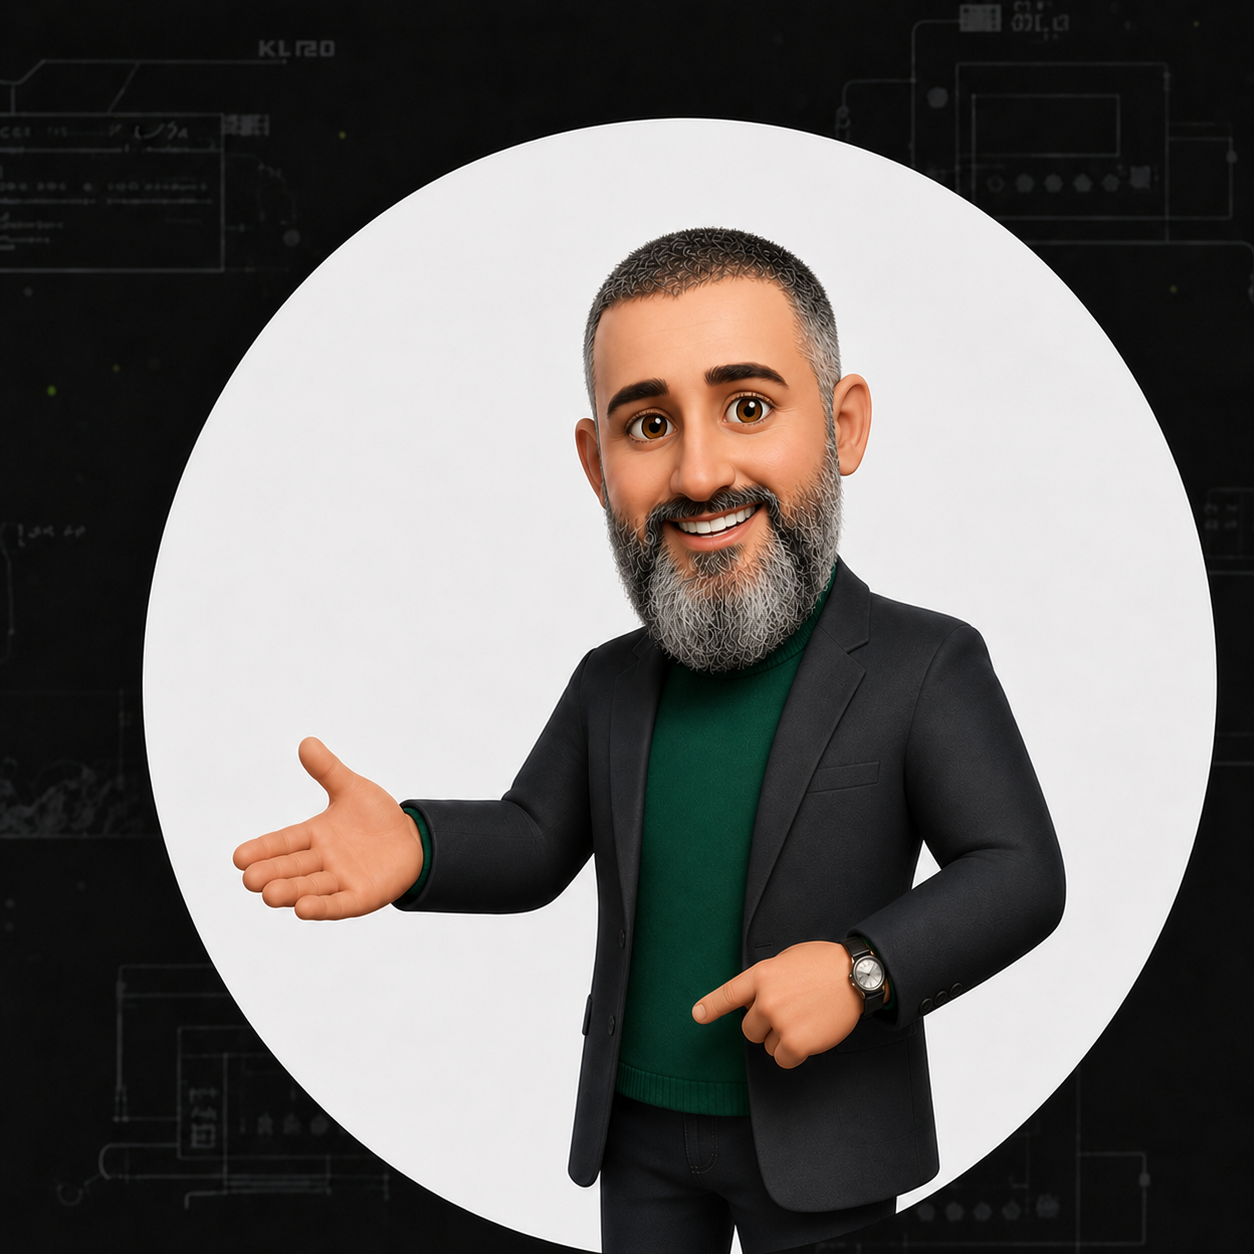
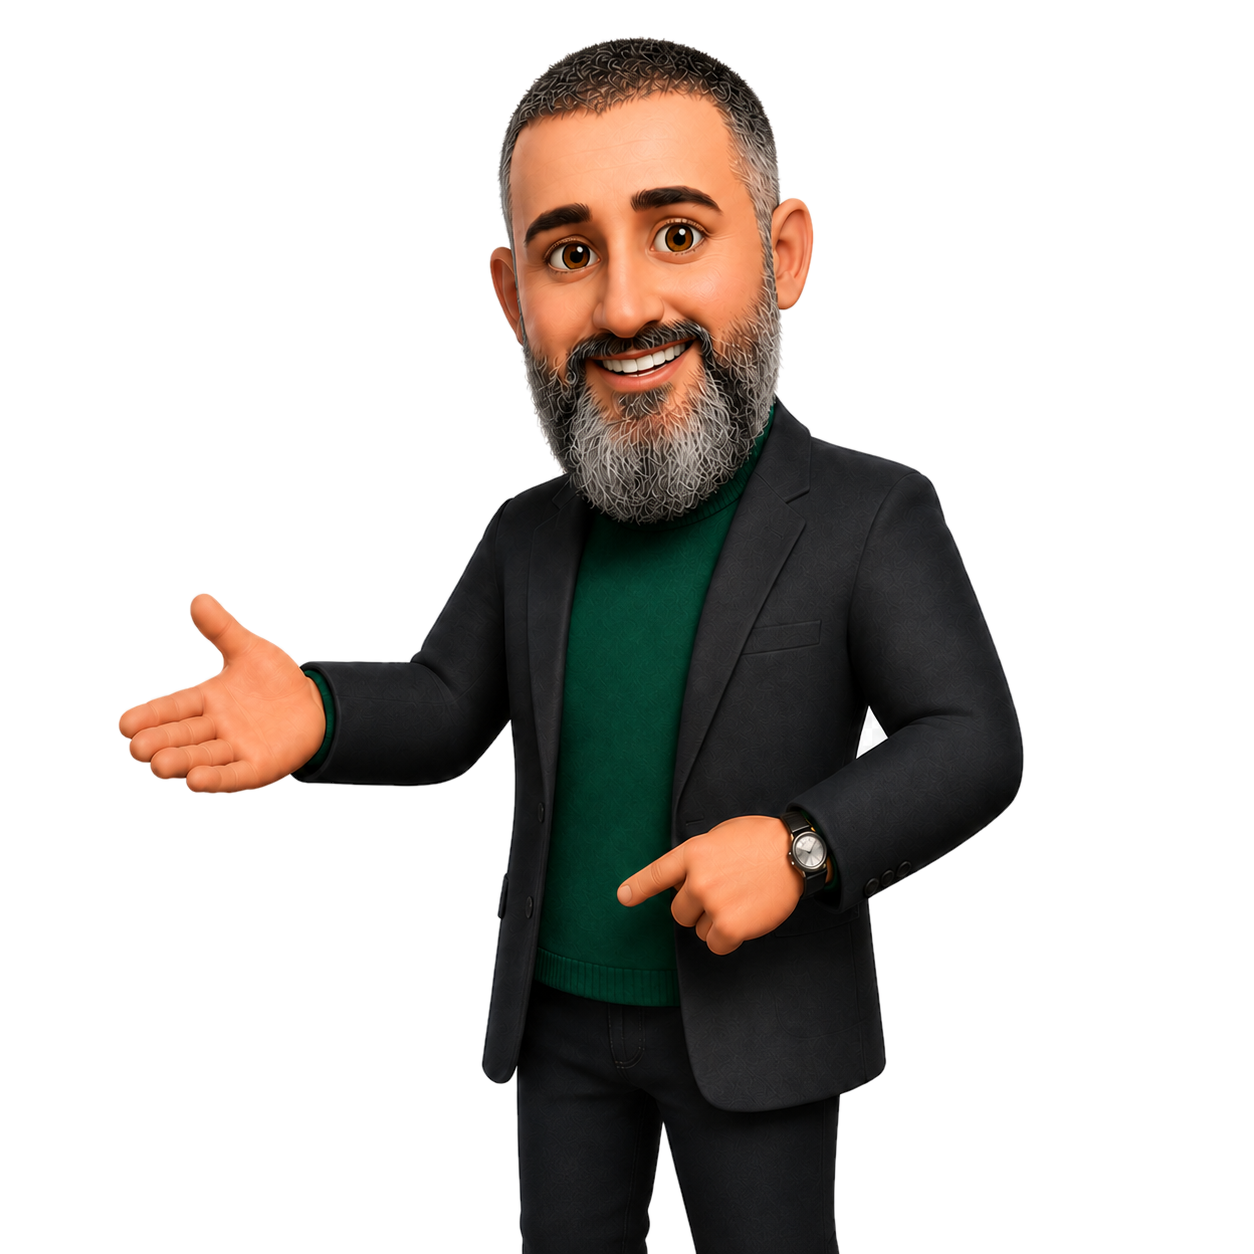
feat: add interactive ReadHeadLab component for enhanced text exploration; improve accessibility with ARIA roles in IntroInteractions; update mentor hero images

diff --git a/app/behind-the-scenes-ai/chapter-1/ReadHeadLab.tsx b/app/behind-the-scenes-ai/chapter-1/ReadHeadLab.tsx
@@ -1,0 +1,282 @@
+"use client";
+
+import React, { useEffect, useMemo, useState } from 'react';
+import { motion, useReducedMotion } from 'framer-motion';
+import { Play, Pause, SkipForward, SkipBack, RotateCcw, ScanLine } from 'lucide-react';
+
+import { ACCENTS } from '@/components/ai-internals/accents';
+import { ProbabilityBars } from '@/components/ai-internals/ProbabilityBars';
+import { ConfidenceMeter } from '@/components/ai-internals/ConfidenceMeter';
+import { DecisionCard } from '@/components/ai-internals/DecisionCard';
+import { EngineMetricCard } from '@/components/ai-internals/EngineMetricCard';
+import type { Accent, FlowMode } from '@/components/ai-internals/types';
+
+import {
+    tokenize,
+    runChatEngine,
+    runAgentEngine,
+    type ChatEngineResult,
+    type AgentEngineResult,
+} from './mockEngine';
+
+interface ReadHeadLabProps {
+    /** הטקסט המלא שנשלח לצ'אט - הסורק רץ עליו מילה-אחר-מילה. */
+    text: string;
+    mode: FlowMode;
+    accent: Accent;
+}
+
+type Run = ChatEngineResult | AgentEngineResult;
+const isChatRun = (r: Run): r is ChatEngineResult => 'intents' in r;
+
+const STEP_MS = 780;
+
+// צבע ה-thumb של ה-slider לכל גוון (accent-color דורש ערך, לא מחלקת Tailwind דינמית).
+const RANGE_COLOR: Record<Accent, string> = {
+    cyan: '#22d3ee', blue: '#60a5fa', indigo: '#818cf8', purple: '#c084fc',
+    amber: '#fbbf24', emerald: '#34d399', rose: '#fb7185', slate: '#94a3b8',
+};
+
+/**
+ * "ראש הקריאה": playhead שסורק את המשפט מילה-אחר-מילה. לכל prefix (המילים עד
+ * נקודת הסורק) מורץ אותו מנוע לימודי, וההסתברויות מתעדכנות בזמן אמת - כך שהמוביל
+ * יכול להתחלף באמצע המשפט. זו שכבת-הצגה מעל ה-mockEngine: אין כאן מספרים חדשים,
+ * רק הרצה כנה של אותו מנוע על תת-מחרוזות.
+ */
+export const ReadHeadLab: React.FC<ReadHeadLabProps> = ({ text, mode, accent }) => {
+    const reduce = useReducedMotion();
+    const a = ACCENTS[accent];
+    const isChat = mode === 'chat';
+
+    const tokens = useMemo(() => tokenize(text), [text]);
+    const n = tokens.length;
+
+    // ריצה לכל prefix. כל מילה עד ראש הסורק מריצה מחדש את אותו מנוע על תת-המחרוזת.
+    const runs = useMemo<Run[]>(
+        () =>
+            tokens.map((_, i) => {
+                const prefix = tokens.slice(0, i + 1).join(' ');
+                return isChat ? runChatEngine(prefix) : runAgentEngine(prefix);
+            }),
+        [tokens, isChat],
+    );
+
+    const [head, setHead] = useState(Math.max(0, n - 1));
+    const [playing, setPlaying] = useState(false);
+
+    // טקסט/מצב חדש: התחל לקרוא מהמילה הראשונה. ב-reduced-motion נוחתים סטטית על הסוף.
+    useEffect(() => {
+        if (reduce || n <= 1) {
+            setHead(Math.max(0, n - 1));
+            setPlaying(false);
+            return;
+        }
+        setHead(0);
+        setPlaying(true);
+    }, [text, isChat, n, reduce]);
+
+    // לולאת הסורק.
+    useEffect(() => {
+        if (!playing) return;
+        const id = setInterval(() => setHead((h) => Math.min(n - 1, h + 1)), STEP_MS);
+        return () => clearInterval(id);
+    }, [playing, n]);
+
+    // עצירה בסוף המשפט.
+    useEffect(() => {
+        if (head >= n - 1) setPlaying(false);
+    }, [head, n]);
+
+    const clampedHead = Math.min(Math.max(0, head), Math.max(0, n - 1));
+    const current = runs[clampedHead];
+
+    const stepBack = () => { setPlaying(false); setHead((h) => Math.max(0, h - 1)); };
+    const stepForward = () => { setPlaying(false); setHead((h) => Math.min(n - 1, h + 1)); };
+    const restart = () => { setHead(0); if (!reduce) setPlaying(true); };
+    const togglePlay = () => {
+        if (head >= n - 1) { setHead(0); setPlaying(true); return; }
+        setPlaying((p) => !p);
+    };
+    const seek = (i: number) => { setPlaying(false); setHead(i); };
+
+    const atEnd = clampedHead >= n - 1;
+
+    if (n === 0 || !current) {
+        return (
+            <div className="rounded-2xl border border-white/10 bg-slate-950/60 p-6 text-center text-sm text-slate-500" dir="rtl">
+                כתבו משפט בצ&apos;אט כדי שראש הקריאה יסרוק אותו.
+            </div>
+        );
+    }
+
+    const prefixText = tokens.slice(0, clampedHead + 1).join(' ');
+
+    return (
+        <div className={`rounded-[2rem] border ${a.border} bg-slate-950/70 ${a.glow} overflow-hidden`} dir="rtl">
+            {/* כותרת */}
+            <div className="flex items-center gap-3 p-5 border-b border-white/10">
+                <div className={`p-2 rounded-xl bg-slate-900 border border-white/10 ${a.text}`}>
+                    <ScanLine size={18} />
+                </div>
+                <div>
+                    <div className="text-[10px] font-mono uppercase tracking-widest text-slate-500">Read Head</div>
+                    <div className={`font-black text-lg ${a.text}`}>ראש הקריאה</div>
+                </div>
+            </div>
+
+            <div className="p-5 space-y-5">
+                <p className="text-sm text-slate-300 leading-relaxed">
+                    הסורק קורא מילה-אחר-מילה. בכל עצירה מורץ <span className={a.text}>אותו מנוע</span> על
+                    המילים שנקראו עד כה - כך אפשר לראות את המודל <span className="text-white font-semibold">משנה את דעתו תוך כדי קריאה</span>.
+                </p>
+
+                {/* פס בקרה */}
+                <div className="flex flex-wrap items-center justify-between gap-2 rounded-xl border border-slate-700/50 bg-slate-950/50 px-3 py-2">
+                    <div className="flex items-center gap-1.5">
+                        <button
+                            type="button"
+                            onClick={togglePlay}
+                            aria-pressed={playing}
+                            disabled={n <= 1}
+                            className={`inline-flex items-center gap-1.5 rounded-lg border ${a.border} ${a.bgSoft} px-2.5 py-1 text-xs font-bold ${a.text} transition-colors hover:brightness-125 disabled:opacity-40`}
+                        >
+                            {playing ? <Pause size={13} /> : <Play size={13} />}
+                            {playing ? 'השהה' : atEnd ? 'שוב' : 'הרץ'}
+                        </button>
+                        <button
+                            type="button"
+                            onClick={stepBack}
+                            disabled={clampedHead <= 0}
+                            className="inline-flex items-center gap-1.5 rounded-lg border border-slate-700/60 bg-slate-800/40 px-2.5 py-1 text-xs font-bold text-slate-300 transition-colors hover:border-slate-600 disabled:opacity-40"
+                        >
+                            <SkipBack size={13} /> אחורה
+                        </button>
+                        <button
+                            type="button"
+                            onClick={stepForward}
+                            disabled={atEnd}
+                            className="inline-flex items-center gap-1.5 rounded-lg border border-slate-700/60 bg-slate-800/40 px-2.5 py-1 text-xs font-bold text-slate-300 transition-colors hover:border-slate-600 disabled:opacity-40"
+                        >
+                            <SkipForward size={13} /> קדימה
+                        </button>
+                        <button
+                            type="button"
+                            onClick={restart}
+                            className="inline-flex items-center gap-1.5 rounded-lg border border-slate-700/60 bg-slate-800/40 px-2.5 py-1 text-xs font-bold text-slate-300 transition-colors hover:border-slate-600"
+                        >
+                            <RotateCcw size={13} /> מהתחלה
+                        </button>
+                    </div>
+                    <span
+                        role="status"
+                        aria-live="polite"
+                        aria-label={`מילה ${clampedHead + 1} מתוך ${n}`}
+                        className="font-mono text-[11px] font-bold text-slate-500"
+                        dir="ltr"
+                    >
+                        {clampedHead + 1}/{n}
+                    </span>
+                </div>
+
+                {/* רצועת המילים + סורק */}
+                <div className="space-y-3">
+                    <div className="flex flex-wrap gap-1.5">
+                        {tokens.map((tk, i) => {
+                            const read = i <= clampedHead;
+                            const isHead = i === clampedHead;
+                            return (
+                                <button
+                                    key={`${tk}-${i}`}
+                                    type="button"
+                                    onClick={() => seek(i)}
+                                    aria-current={isHead ? 'true' : undefined}
+                                    className={`relative rounded-lg px-2.5 py-1 text-sm font-mono border transition-colors
+                                        ${read ? `${a.border} ${a.bgSoft} ${a.text}` : 'border-white/5 bg-slate-900/40 text-slate-600'}
+                                        ${isHead ? `ring-2 ${a.ringSoft}` : ''}`}
+                                >
+                                    {tk}
+                                    {isHead && !reduce && (
+                                        <motion.span
+                                            layoutId={`readhead-${mode}`}
+                                            className={`pointer-events-none absolute -bottom-1 inset-x-1 h-0.5 rounded-full ${a.solid}`}
+                                            transition={{ type: 'spring', stiffness: 380, damping: 32 }}
+                                        />
+                                    )}
+                                </button>
+                            );
+                        })}
+                    </div>
+
+                    {/* סקראבר: גרירה + מקשי חצים */}
+                    <input
+                        type="range"
+                        min={0}
+                        max={Math.max(0, n - 1)}
+                        step={1}
+                        value={clampedHead}
+                        onChange={(e) => seek(Number(e.target.value))}
+                        aria-label="מיקום ראש הקריאה"
+                        disabled={n <= 1}
+                        style={{ accentColor: RANGE_COLOR[accent] }}
+                        className="w-full cursor-pointer disabled:opacity-40"
+                    />
+                </div>
+
+                {/* כותרת מצב חיה */}
+                <div
+                    role="status"
+                    aria-live="polite"
+                    className="rounded-xl border border-white/10 bg-slate-900/40 px-4 py-2.5 text-sm"
+                >
+                    {isChatRun(current) ? (
+                        <span className="text-slate-300">
+                            המוביל כעת:{' '}
+                            <strong className={a.text}>{current.intents[0]?.label}</strong>{' '}
+                            <span className="font-mono text-slate-500" dir="ltr">({current.intents[0]?.value}%)</span>
+                            {' · '}
+                            ביטחון <strong className="text-slate-200">{current.confidence}</strong>
+                        </span>
+                    ) : (
+                        <span className="text-slate-300">
+                            ההחלטה כעת: <strong className={a.text}>{current.decision.label}</strong>
+                        </span>
+                    )}
+                </div>
+
+                {/* פאנלים */}
+                {isChatRun(current) ? (
+                    <div className="grid gap-4 md:grid-cols-2">
+                        <div className="rounded-xl border border-white/10 bg-slate-900/50 p-4">
+                            <ProbabilityBars title="Intent probabilities" items={current.intents} accent={accent} />
+                        </div>
+                        <div className="space-y-4">
+                            <ConfidenceMeter level={current.confidence} />
+                            <DecisionCard decision={current.decision} />
+                        </div>
+                    </div>
+                ) : (
+                    <div className="grid gap-4 md:grid-cols-2">
+                        <div className="space-y-4">
+                            <EngineMetricCard label="Task detected" value={current.task} tone={accent} />
+                            <EngineMetricCard
+                                label="Missing information"
+                                value={current.missingInfo}
+                                tone={current.missingInfo === 'None' ? 'emerald' : 'amber'}
+                            />
+                        </div>
+                        <DecisionCard decision={current.decision} />
+                    </div>
+                )}
+
+                {/* כיתוב יושרה: קפיצות בדידות הן תקינות */}
+                <p className="flex items-start gap-1.5 text-[11px] leading-relaxed text-slate-500">
+                    <span className={`mt-[5px] h-1 w-1 shrink-0 rounded-full ${a.dot}`} />
+                    <span>
+                        לפעמים העמודות קופצות בבת אחת כשמילת-מפתח נכנסת (למשל &quot;{prefixText}&quot;). זה לא באג:
+                        ככה אמונה משתנה ברגע שמגיעה הראיה המכריעה.
+                    </span>
+                </p>
+            </div>
+        </div>
+    );
+};

diff --git a/components/ai-internals/IntroInteractions.tsx b/components/ai-internals/IntroInteractions.tsx
@@ -86,7 +86,7 @@ export const GuessRevealGate: React.FC<{ reduce: boolean; actual?: number }> = (
                             transition={reduce ? { duration: 0 } : { duration: 0.4, ease: [0.22, 1, 0.36, 1] }}
                             className="overflow-hidden"
                         >
-                            <div className="mt-6 flex flex-col items-center gap-1.5">
+                            <div className="mt-6 flex flex-col items-center gap-1.5" role="status" aria-live="polite">
                                 <p className="inline-flex items-center gap-2 text-base font-bold text-cyan-300 md:text-lg">
                                     <Sparkles size={16} />
                                     {guess === actual ? 'בול! זיהיתם נכון.' : `התשובה: ${actual} שלבים.`}
@@ -175,7 +175,15 @@ export const LiveTokenizeTaste: React.FC<{ reduce: boolean }> = ({ reduce }) => 
             <div className="mt-6">
                 <div className="mb-2.5 flex items-center justify-between">
                     <span className="text-[11px] font-bold uppercase tracking-wider text-slate-500">הטוקנים שלכם</span>
-                    <span className="font-mono text-xs font-bold text-cyan-300" dir="ltr">{tokens.length} tokens</span>
+                    <span
+                        role="status"
+                        aria-live="polite"
+                        aria-label={`${tokens.length} טוקנים`}
+                        className="font-mono text-xs font-bold text-cyan-300"
+                        dir="ltr"
+                    >
+                        {tokens.length} tokens
+                    </span>
                 </div>
                 <div className="flex min-h-[3rem] flex-wrap gap-2">
                     <AnimatePresence mode="popLayout" initial={false}>

diff --git a/app/behind-the-scenes-ai/introduction/page.tsx b/app/behind-the-scenes-ai/introduction/page.tsx
@@ -240,6 +240,18 @@ export default function BehindTheScenesIntroPage() {
             className="absolute top-1/2 -translate-y-1/2 left-full ml-3 2xl:ml-6 z-20 hidden xl:block w-40 2xl:w-52 pointer-events-none"
           >
             <div className="absolute inset-0 bg-cyan-500/15 blur-2xl rounded-full" />
+            {/* בועת-דיבור: הופכת את המנטור מקישוט למלווה שמזמין פנימה */}
+            <motion.div
+              initial={reduce ? false : { opacity: 0, y: 8, scale: 0.9 }}
+              animate={{ opacity: 1, y: 0, scale: 1 }}
+              transition={reduce ? { duration: 0 } : { type: 'spring', stiffness: 220, damping: 18, delay: 1 }}
+              className="absolute -top-12 left-1/2 -translate-x-1/2 w-max max-w-[11rem]"
+            >
+              <div className="relative rounded-2xl border border-cyan-500/40 bg-slate-900/95 px-3 py-2 text-center shadow-lg backdrop-blur-sm">
+                <p className="text-[11px] font-bold leading-snug text-cyan-200">בואו נפתח את המכסה ביחד 👀</p>
+                <span className="absolute -bottom-1.5 left-1/2 -translate-x-1/2 h-3 w-3 rotate-45 border-b border-r border-cyan-500/40 bg-slate-900/95" />
+              </div>
+            </motion.div>
             <motion.img
               animate={reduce ? undefined : { y: [0, -10, 0] }}
               transition={{ repeat: Infinity, duration: 4, ease: 'easeInOut' }}
